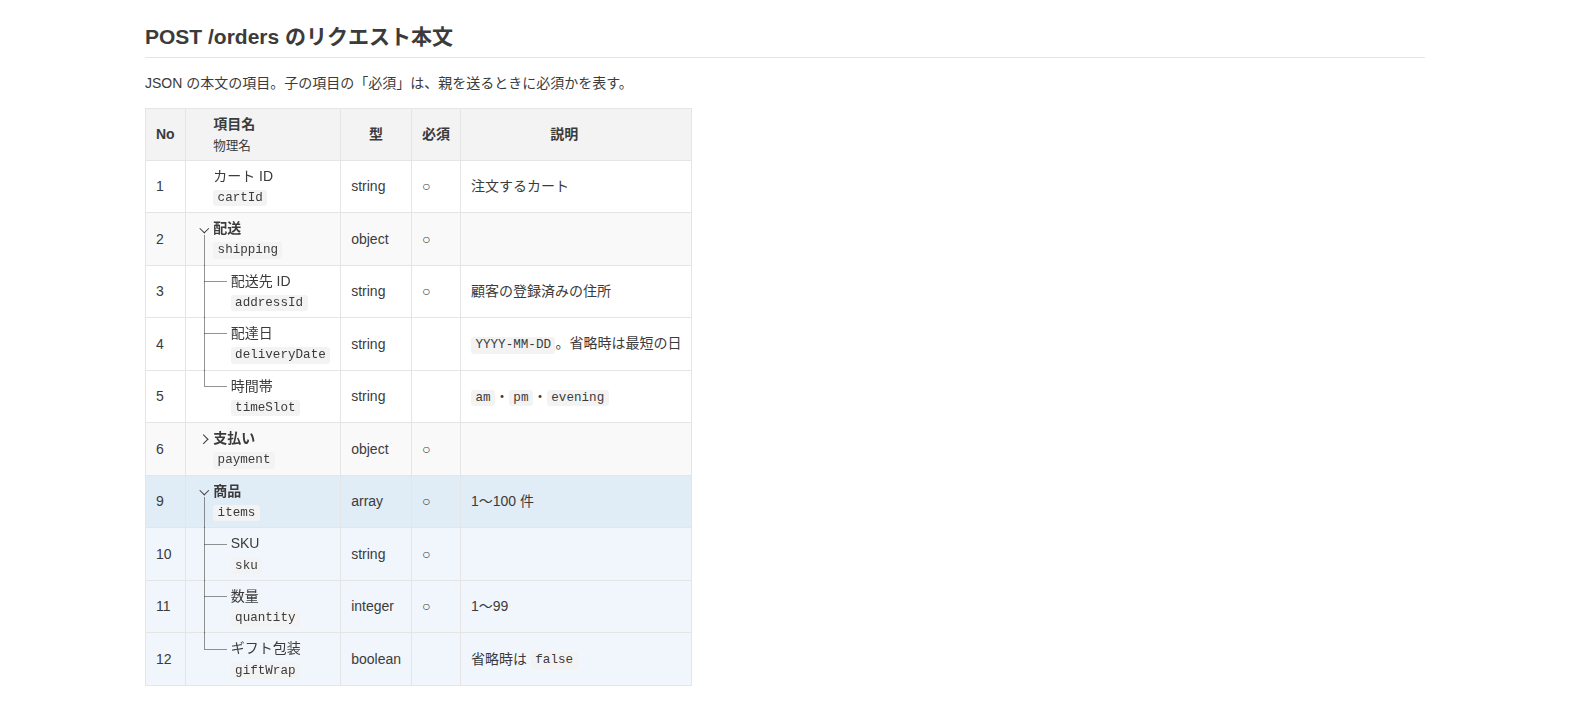
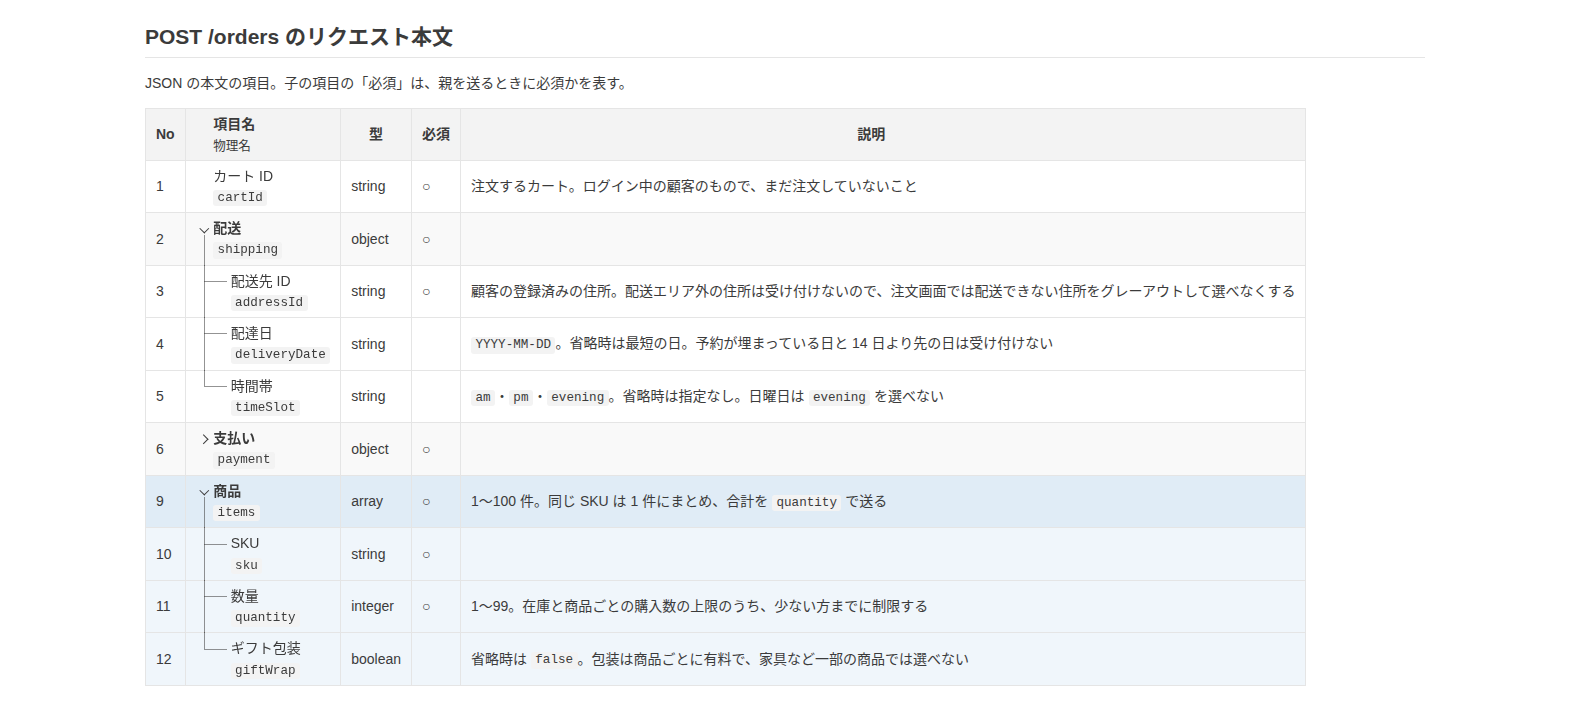
スクリーンショット用の項目の表の説明を増やし、説明の列に幅を回せることが伝わるようにする (MDDV-21)

diff --git a/site/index.html b/site/index.html
@@ -130,7 +130,7 @@ Issue a JWT valid for one hour.</code></pre>
             <h3>Tables of items</h3>
             <p>In tables of the items of a message, a file or a screen, a comment before the table shows the physical names under the item names, and the nested items as a tree: foldable, with the parents and children of the row under the pointer highlighted. A button shows the table as it is again for a while. Elsewhere, such as on GitHub, it stays a plain table.</p>
           </div>
-          <div class="frame"><img src="images/screenshot-tables.png" width="1570" height="709" loading="lazy" alt="A table of the fields of a request body, with the physical names under the field names and the nested fields as a tree"></div>
+          <div class="frame"><img src="images/screenshot-tables.png" width="1570" height="710" loading="lazy" alt="A table of the fields of a request body, with the physical names under the field names and the nested fields as a tree"></div>
         </div>
 
         <ul class="more">

diff --git a/examples/screenshot.ja.md b/examples/screenshot.ja.md
@@ -269,18 +269,18 @@ JSON の本文の項目。子の項目の「必須」は、親を送るときに
 <!-- table: level=階層 merge=項目名,物理名 -->
 | No | 階層 | 項目名 | 物理名 | 型 | 必須 | 説明 |
 |---|---|---|---|---|---|---|
-| 1 | 1 | カート ID | `cartId` | string | ○ | 注文するカート |
+| 1 | 1 | カート ID | `cartId` | string | ○ | 注文するカート。ログイン中の顧客のもので、まだ注文していないこと |
 | 2 | 1 | 配送 | `shipping` | object | ○ | |
-| 3 | 2 | 配送先 ID | `addressId` | string | ○ | 顧客の登録済みの住所 |
-| 4 | 2 | 配達日 | `deliveryDate` | string | | `YYYY-MM-DD`。省略時は最短の日 |
-| 5 | 2 | 時間帯 | `timeSlot` | string | | `am`・`pm`・`evening` |
+| 3 | 2 | 配送先 ID | `addressId` | string | ○ | 顧客の登録済みの住所。配送エリア外の住所は受け付けないので、注文画面では配送できない住所をグレーアウトして選べなくする |
+| 4 | 2 | 配達日 | `deliveryDate` | string | | `YYYY-MM-DD`。省略時は最短の日。予約が埋まっている日と 14 日より先の日は受け付けない |
+| 5 | 2 | 時間帯 | `timeSlot` | string | | `am`・`pm`・`evening`。省略時は指定なし。日曜日は `evening` を選べない |
 | 6 | 1 | 支払い | `payment` | object | ○ | |
-| 7 | 2 | 支払い方法 ID | `methodId` | string | ○ | 登録済みのカードやウォレット |
-| 8 | 2 | クーポンコード | `couponCode` | string | | |
-| 9 | 1 | 商品 | `items` | array | ○ | 1〜100 件 |
+| 7 | 2 | 支払い方法 ID | `methodId` | string | ○ | 登録済みのカードやウォレット。有効期限切れや前回のオーソリで拒否されたカードは、顧客が更新するまで使えない |
+| 8 | 2 | クーポンコード | `couponCode` | string | | 1 回の注文に 1 枚まで。期限切れのクーポンは適用せず、理由をレスポンスで返す |
+| 9 | 1 | 商品 | `items` | array | ○ | 1〜100 件。同じ SKU は 1 件にまとめ、合計を `quantity` で送る |
 | 10 | 2 | SKU | `sku` | string | ○ | |
-| 11 | 2 | 数量 | `quantity` | integer | ○ | 1〜99 |
-| 12 | 2 | ギフト包装 | `giftWrap` | boolean | | 省略時は `false` |
+| 11 | 2 | 数量 | `quantity` | integer | ○ | 1〜99。在庫と商品ごとの購入数の上限のうち、少ない方までに制限する |
+| 12 | 2 | ギフト包装 | `giftWrap` | boolean | | 省略時は `false`。包装は商品ごとに有料で、家具など一部の商品では選べない |
 
 ## 返金（草案）
 

diff --git a/examples/screenshot.md b/examples/screenshot.md
@@ -269,18 +269,18 @@ The fields of the JSON body. "Required" of a nested field applies when its paren
 <!-- table: level=Level merge=Field,"Physical name" -->
 | No | Level | Field | Physical name | Type | Required | Description |
 |---|---|---|---|---|---|---|
-| 1 | 1 | Cart ID | `cartId` | string | Yes | The cart to check out. |
+| 1 | 1 | Cart ID | `cartId` | string | Yes | The cart to check out. It must belong to the signed-in customer and must not have been checked out already. |
 | 2 | 1 | Shipping | `shipping` | object | Yes | |
-| 3 | 2 | Address ID | `addressId` | string | Yes | One of the customer's addresses. |
-| 4 | 2 | Delivery date | `deliveryDate` | string | | `YYYY-MM-DD`. The earliest date when omitted. |
-| 5 | 2 | Time slot | `timeSlot` | string | | `am`, `pm` or `evening`. |
+| 3 | 2 | Address ID | `addressId` | string | Yes | One of the customer's saved addresses. An address outside the delivery area is rejected, so the order screen grays out the addresses that cannot be delivered to. |
+| 4 | 2 | Delivery date | `deliveryDate` | string | | `YYYY-MM-DD`. The earliest date when omitted. A fully booked date or a date more than 14 days ahead is rejected. |
+| 5 | 2 | Time slot | `timeSlot` | string | | `am`, `pm` or `evening`. Any time of the day when omitted. `evening` is not available on Sundays. |
 | 6 | 1 | Payment | `payment` | object | Yes | |
-| 7 | 2 | Payment method ID | `methodId` | string | Yes | A saved card or wallet. |
-| 8 | 2 | Coupon code | `couponCode` | string | | |
-| 9 | 1 | Items | `items` | array | Yes | 1 to 100 items. |
+| 7 | 2 | Payment method ID | `methodId` | string | Yes | A saved card or wallet. A card that has expired or failed the last authorization cannot be used until the customer updates it. |
+| 8 | 2 | Coupon code | `couponCode` | string | | Only one coupon per order. An expired coupon is ignored, and the response tells why. |
+| 9 | 1 | Items | `items` | array | Yes | 1 to 100 items. Each SKU appears only once; send the total in `quantity`. |
 | 10 | 2 | SKU | `sku` | string | Yes | |
-| 11 | 2 | Quantity | `quantity` | integer | Yes | 1 to 99. |
-| 12 | 2 | Gift wrap | `giftWrap` | boolean | | `false` when omitted. |
+| 11 | 2 | Quantity | `quantity` | integer | Yes | 1 to 99. Also limited by the stock and by the per-customer limit of the product, whichever is smaller. |
+| 12 | 2 | Gift wrap | `giftWrap` | boolean | | `false` when omitted. Wrapping is charged per item and is not available for some products such as furniture. |
 
 ## Refund (draft)
 
